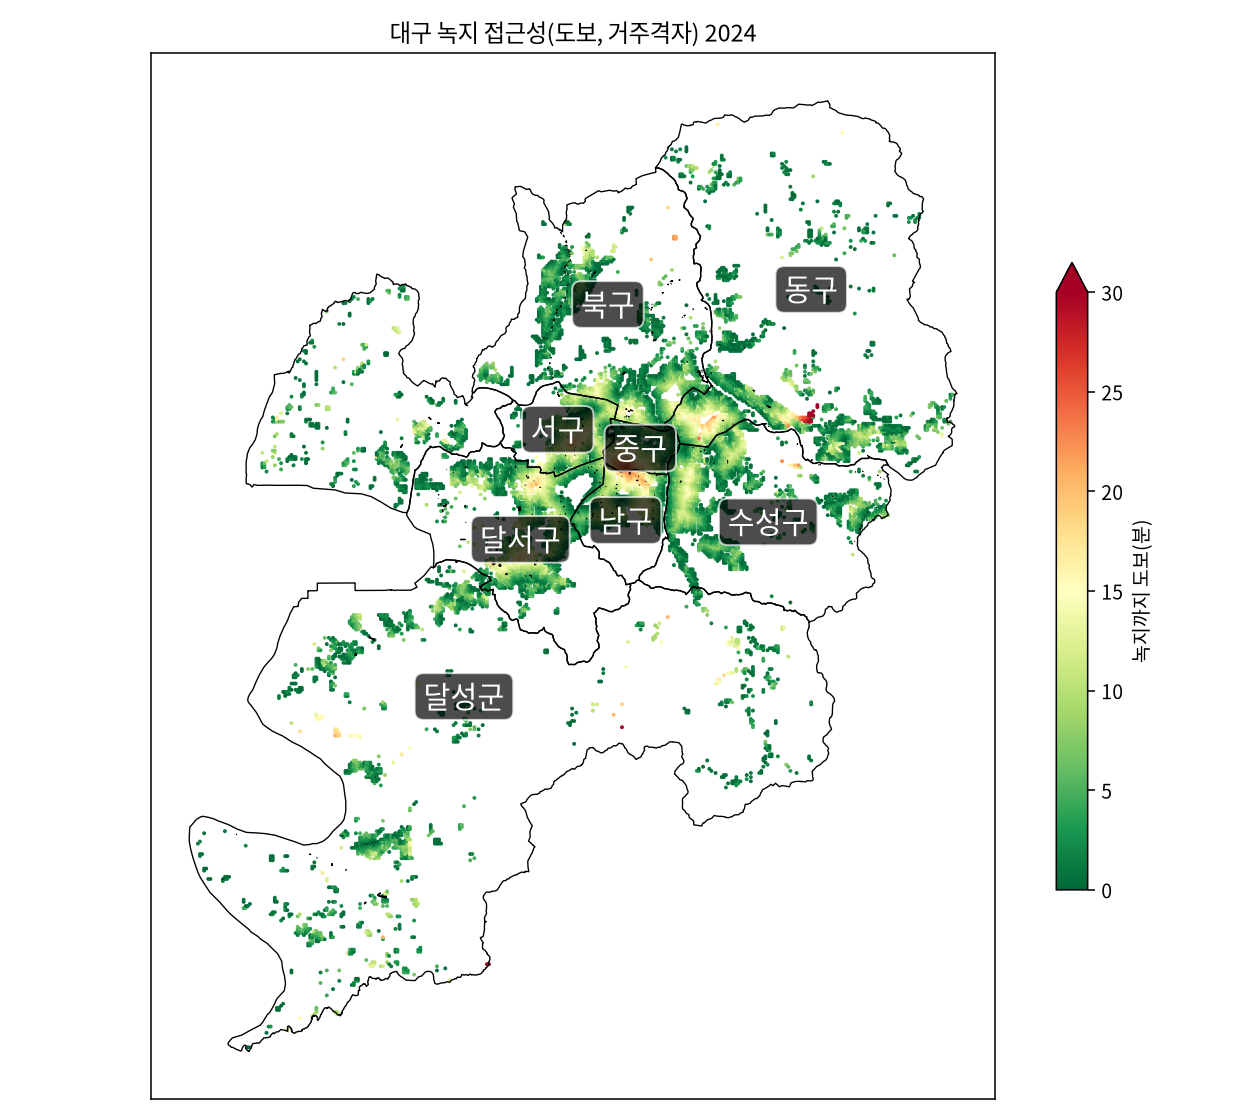
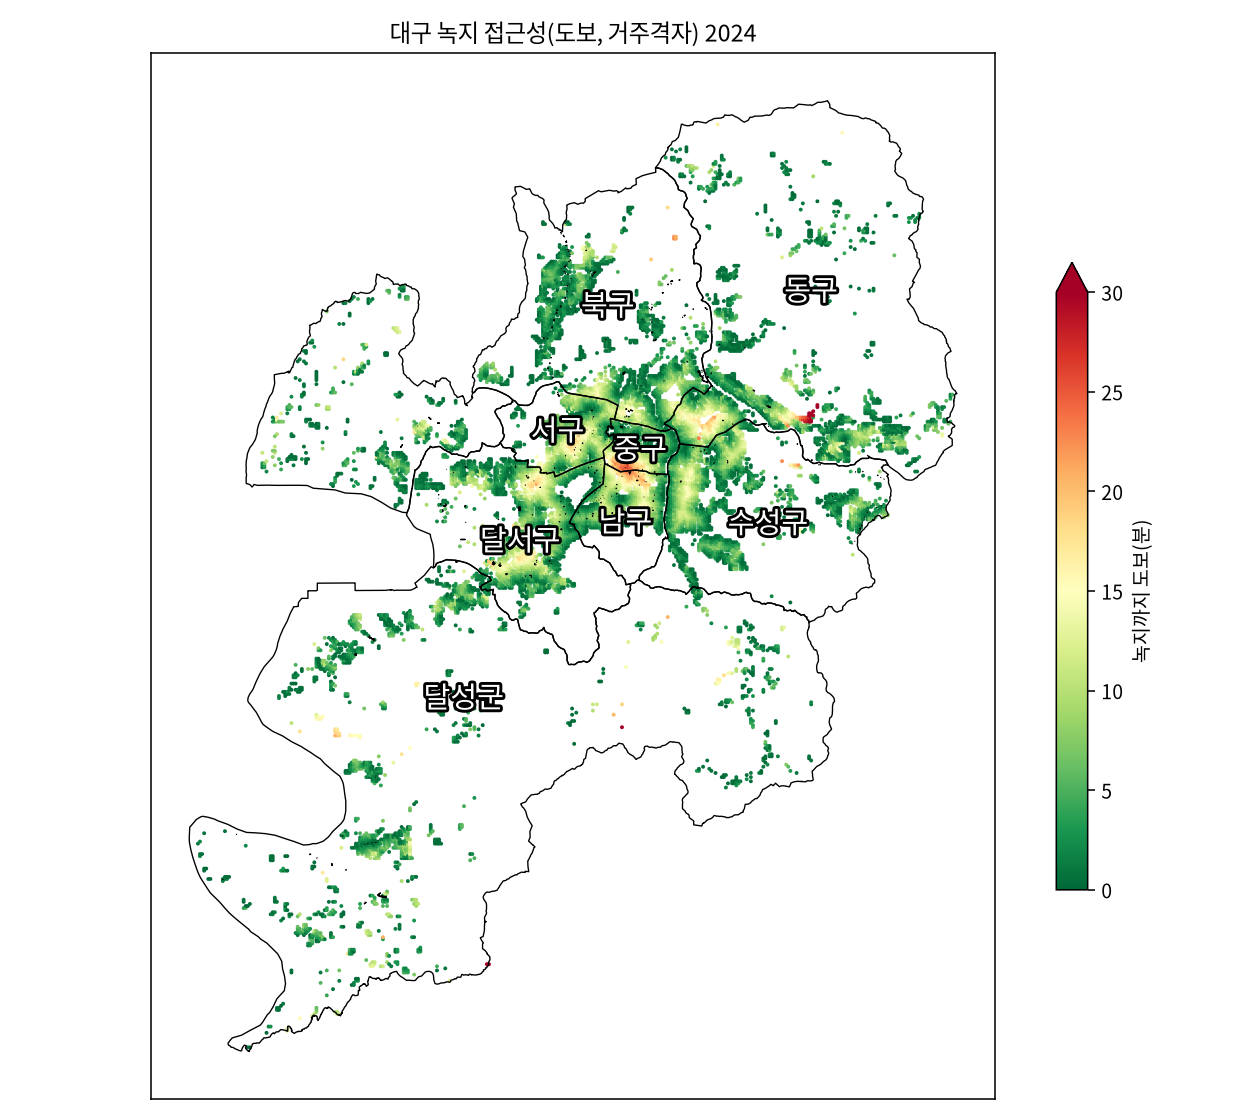
Apply neon text effect to district labels - remove background boxes
- Replaced yellow/black background boxes with pure neon text effect
- Added path effects (withStroke) to all district labels for neon glow
- White text with black stroke outline for improved visibility
- Removed all bbox styling from text labels
- Updated connectivity maps, accessibility maps, and 4-panel intermediate figure
- Applied to module4_zonal.py and add_labels_to_intermediates.py

Result: Clean, modern neon-style labels without background boxes

Claude-Session: https://claude.ai/code/session_017QLYKhuyrmTE4uHjhJ3Unn

diff --git a/src/module4_zonal.py b/src/module4_zonal.py
@@ -20,6 +20,7 @@ from rasterio import features as rfeatures
 import matplotlib; matplotlib.use("Agg")
 import matplotlib.pyplot as plt
 from matplotlib import font_manager
+from matplotlib.patheffects import withStroke
 
 PROJ = os.path.dirname(os.path.dirname(os.path.abspath(__file__)))
 STAMP = "20260705"
@@ -124,12 +125,10 @@ def citymap_conn(arrs, transform, shape, dist):
         dist.boundary.plot(ax=ax, color="cyan", linewidth=0.7)
         for idx, row in dist.iterrows():
             centroid = row.geometry.centroid
-            ax.text(centroid.x, centroid.y, row["구군"],
-                   fontsize=15, ha="center", va="center",
-                   color="black",
-                   bbox=dict(boxstyle="round,pad=0.3",
-                            facecolor="yellow", alpha=0.85,
-                            edgecolor="black", linewidth=1))
+            t = ax.text(centroid.x, centroid.y, row["구군"],
+                       fontsize=15, ha="center", va="center",
+                       color="white")
+            t.set_path_effects([withStroke(linewidth=3, foreground="black")])
         ax.set_title(f"대구 녹지 연결성(전류밀도) {y}"); ax.set_xticks([]); ax.set_yticks([])
         fig.colorbar(im, ax=ax, shrink=0.6, label="전류밀도")
         fig.tight_layout(); fig.savefig(p(f"module4_대구_연결성_{y}.png"), dpi=140); plt.close(fig)
@@ -139,12 +138,10 @@ def citymap_conn(arrs, transform, shape, dist):
     dist.boundary.plot(ax=ax, color="black", linewidth=0.7)
     for idx, row in dist.iterrows():
         centroid = row.geometry.centroid
-        ax.text(centroid.x, centroid.y, row["구군"],
-               fontsize=15, ha="center", va="center",
-               color="black",
-               bbox=dict(boxstyle="round,pad=0.3",
-                        facecolor="yellow", alpha=0.85,
-                        edgecolor="black", linewidth=1))
+        t = ax.text(centroid.x, centroid.y, row["구군"],
+                   fontsize=15, ha="center", va="center",
+                   color="white")
+        t.set_path_effects([withStroke(linewidth=3, foreground="black")])
     ax.set_title("대구 연결성 변화 (2024-2019)\n파랑=증가, 빨강=감소"); ax.set_xticks([]); ax.set_yticks([])
     fig.colorbar(im, ax=ax, shrink=0.6, label="Δ전류밀도")
     fig.tight_layout(); fig.savefig(p("module4_대구_연결성_차이.png"), dpi=140); plt.close(fig)
@@ -160,12 +157,10 @@ def citymap_access(m, dist):
         dist.boundary.plot(ax=ax, color="black", linewidth=0.7)
         for idx, row in dist.iterrows():
             centroid = row.geometry.centroid
-            ax.text(centroid.x, centroid.y, row["구군"],
-                   fontsize=15, ha="center", va="center",
-                   color="white",
-                   bbox=dict(boxstyle="round,pad=0.3",
-                            facecolor="black", alpha=0.7,
-                            edgecolor="white", linewidth=1))
+            t = ax.text(centroid.x, centroid.y, row["구군"],
+                       fontsize=15, ha="center", va="center",
+                       color="white")
+            t.set_path_effects([withStroke(linewidth=3, foreground="black")])
         ax.set_title(f"대구 녹지 접근성(도보, 거주격자) {y}"); ax.set_xticks([]); ax.set_yticks([])
         fig.tight_layout(); fig.savefig(p(f"module4_대구_접근성_{y}.png"), dpi=140); plt.close(fig)
     gdf["dt"] = gdf["t24"] - gdf["t19"]; v = float(np.nanpercentile(np.abs(gdf["dt"].dropna()), 98)) or 1
@@ -175,12 +170,10 @@ def citymap_access(m, dist):
     dist.boundary.plot(ax=ax, color="black", linewidth=0.7)
     for idx, row in dist.iterrows():
         centroid = row.geometry.centroid
-        ax.text(centroid.x, centroid.y, row["구군"],
-               fontsize=15, ha="center", va="center",
-               color="white",
-               bbox=dict(boxstyle="round,pad=0.3",
-                        facecolor="black", alpha=0.7,
-                        edgecolor="white", linewidth=1))
+        t = ax.text(centroid.x, centroid.y, row["구군"],
+                   fontsize=15, ha="center", va="center",
+                   color="white")
+        t.set_path_effects([withStroke(linewidth=3, foreground="black")])
     ax.set_title("대구 접근성 변화 (2024-2019)\n파랑=개선(단축), 빨강=악화(증가)"); ax.set_xticks([]); ax.set_yticks([])
     fig.tight_layout(); fig.savefig(p("module4_대구_접근성_차이.png"), dpi=140); plt.close(fig)
     log("  ✓ 접근성 전역·차이맵")

diff --git a/src/add_labels_to_intermediates.py b/src/add_labels_to_intermediates.py
@@ -9,6 +9,7 @@ import numpy as np
 import geopandas as gpd
 import matplotlib.pyplot as plt
 from matplotlib import font_manager
+from matplotlib.patheffects import withStroke
 from PIL import Image
 import rasterio
 
@@ -91,12 +92,10 @@ for idx, row in dist.iterrows():
 
     if in_panel:
         # 패널 내에서 표시 (가장자리 제약 없음)
-        ax.text(px, py, row["구군"],
-               fontsize=13, ha="center", va="center",
-               color="black",
-               bbox=dict(boxstyle="round,pad=0.25",
-                        facecolor="yellow", alpha=0.85,
-                        edgecolor="black", linewidth=0.7))
+        t = ax.text(px, py, row["구군"],
+                   fontsize=13, ha="center", va="center",
+                   color="white")
+        t.set_path_effects([withStroke(linewidth=2, foreground="black")])
 
 ax.set_xlim(0, img_w)
 ax.set_ylim(img_h, 0)
